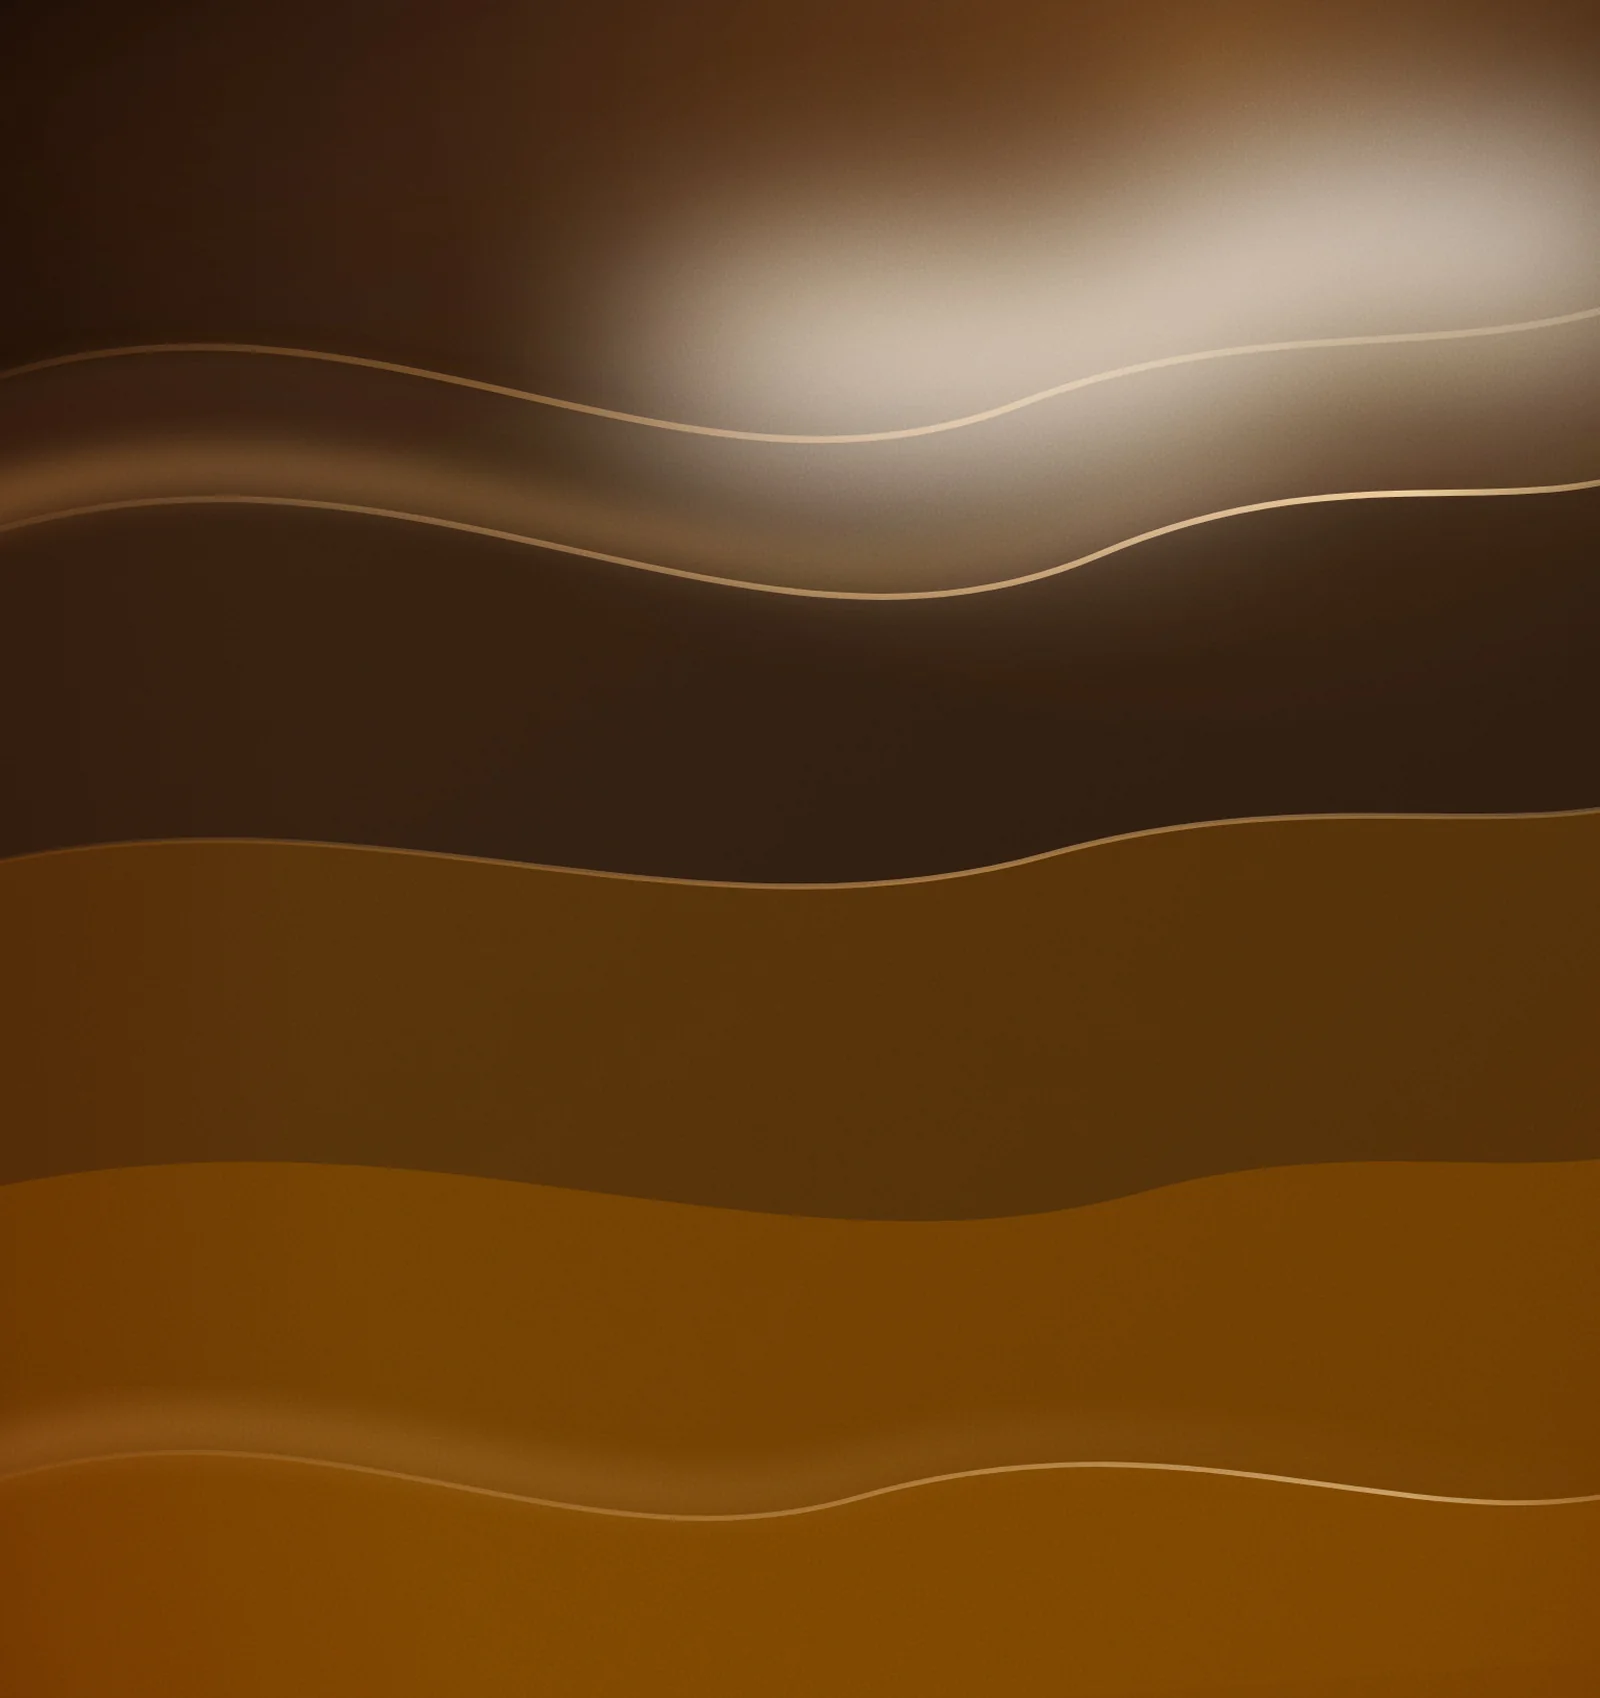
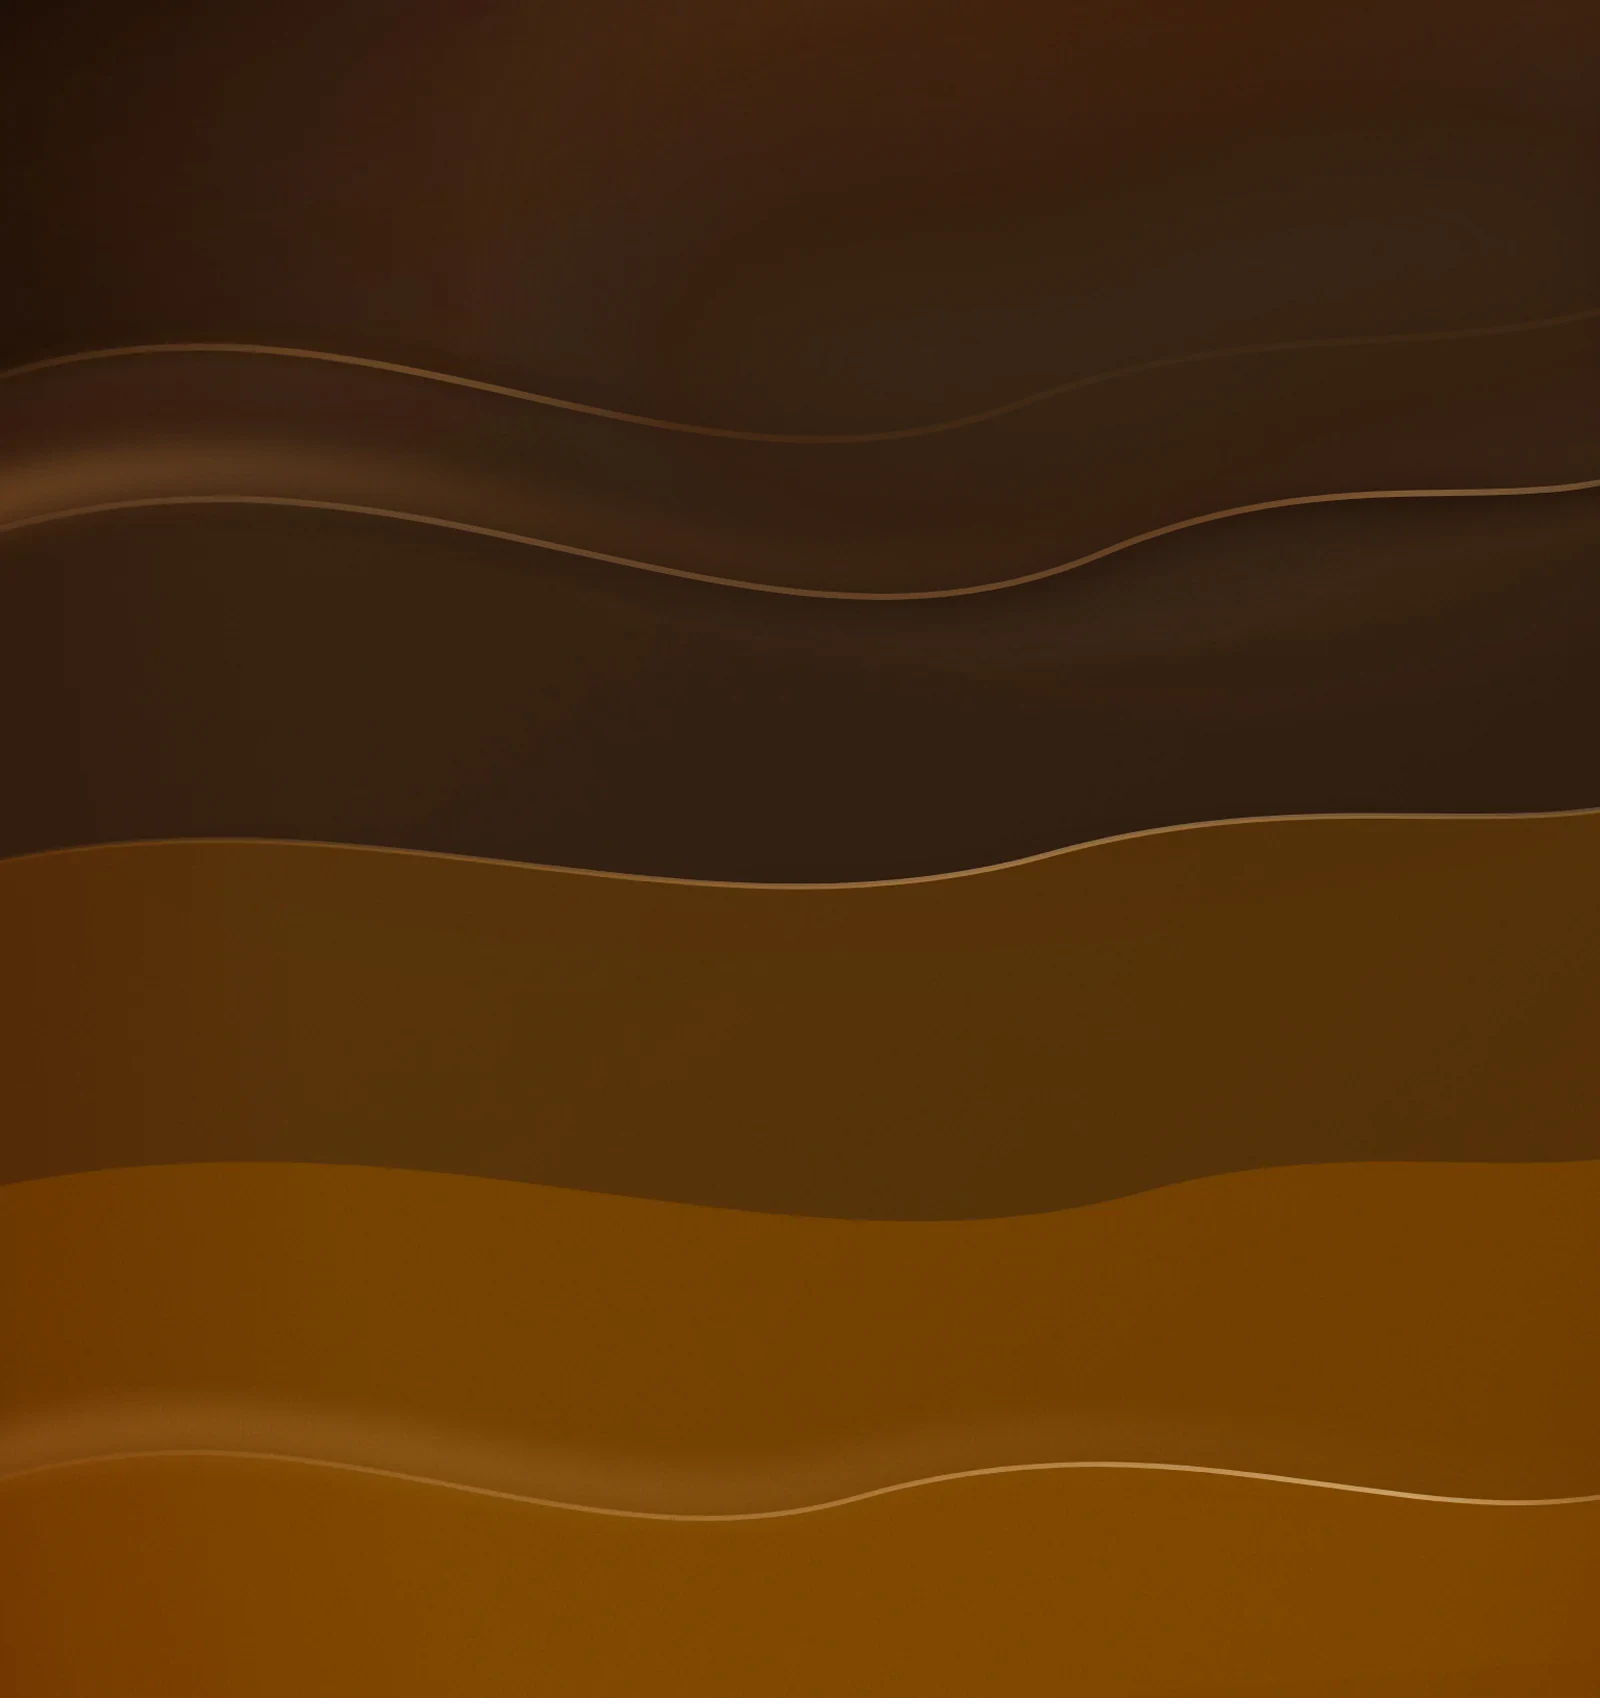
Night sky: the bright patch is gone, so the text can be read
In the dark theme the light patch in the upper right of the sky — where the
app's sun sits — washed out whatever text lay over it. The site's night sky
is now the app's image without that patch; the palette, the bands and the
thin wave lines are the same. brand/night_sky.py makes it from the app's
image, which is kept next to it.

Changed region(s): [[0.1875, 0.0, 1.0, 0.3746]]

diff --git a/style.css b/style.css
@@ -107,7 +107,10 @@ body {
 
 /* The app's sky behind the top of every page, in the same two layers the app
    itself uses: the far one with the soft waves, the near one with the dunes.
-   Both are the app's baked images.
+   Both are the app's baked images — with one difference: the night sky has
+   lost the bright patch where the app's sun sits. Here there is text in that
+   place, and in the dark theme the patch washed it out. `brand/night_sky.py`
+   makes the site's image from the app's.
 
    They drift, very slowly and in opposite directions, and the only thing that
    changes is a transform — the card does that, nothing is repainted frame by

diff --git a/brand/night_sky.py b/brand/night_sky.py
@@ -1,0 +1,50 @@
+"""The night sky for the site, without the glare.
+
+  python3 brand/night_sky.py
+
+The sky behind every page is the app's baked night sky. In the app the bright
+patch in the upper right is where the sun sits; on the site there is no sun
+there, only text, and in the dark theme the patch washed the text out.
+
+This takes the app's image (`brand/sky-night-source.webp`) and removes the
+patch, nothing else: the palette, the bands and the thin wave lines stay. The
+correction is computed from a blurred copy, so it follows the soft light and
+does not touch the lines; inside the patch the light is pulled down to the
+brown around it and warmed back to the same hue.
+
+Needs `ffmpeg` and `cwebp` (brew install ffmpeg webp). No Python packages.
+"""
+import math
+import os
+import subprocess
+import tempfile
+
+HERE = os.path.dirname(os.path.abspath(__file__))
+SRC = os.path.join(HERE, "sky-night-source.webp")
+OUT = os.path.join(HERE, "..", "img", "sky-night.webp")
+
+# Where the patch is (in pixels of the 1600x1698 image), how far down the light
+# is pulled, and how much green and blue are taken out to keep it brown.
+P = dict(CX=1150, CY=285, SX=760, SY=330, ANG=-7, GAIN=2.4, T=43, K=0.07, TG=0.70, TB=0.43, OV=70, BLUR=26)
+c, s = math.cos(math.radians(P["ANG"])), math.sin(math.radians(P["ANG"]))
+L = "(0.30*r(X,Y)+0.59*g(X,Y)+0.11*b(X,Y))"
+dx, dy = "(X-%g)" % P["CX"], "(Y-%g)" % P["CY"]
+u = "((%s*%g+%s*%g)/%g)" % (dx, c, dy, s, P["SX"])
+v = "((-%s*%g+%s*%g)/%g)" % (dx, s, dy, c, P["SY"])
+m = "clip(%g*exp(-(%s*%s+%s*%s)),0,1)" % (P["GAIN"], u, u, v, v)
+# The map of multipliers is computed from the BLURRED image: the soft light is
+# in it, the thin lines are not, so a line is multiplied by the same factor as
+# the ground around it and stays a line. st(0)=luminance, st(1)=mask,
+# st(2)=excess over the target, st(3)=luminance factor, st(4)=tint weight.
+pre = ("st(0,%s);st(1,%s);st(2,max(ld(0)-%g,0));"
+       "st(3,1-ld(1)*(1-(%g+ld(2)*%g)/max(ld(0),1))*gt(ld(0),%g));"
+       "st(4,ld(1)*clip(ld(2)/%g,0,1));") % (L, m, P["T"], P["T"], P["K"], P["T"], P["OV"])
+def ch(t): return "%s255*ld(3)*(1-ld(4)*(1-%g))" % (pre, t)
+flt = ("[0]format=gbrp,split[a][b];"
+       "[b]gblur=sigma=%g,geq=r='%s':g='%s':b='%s'[m];"
+       "[a][m]blend=all_mode=multiply") % (P["BLUR"], ch(1.0), ch(P["TG"]), ch(P["TB"]))
+with tempfile.TemporaryDirectory() as tmp:
+    png = os.path.join(tmp, "sky.png")
+    subprocess.run(["ffmpeg", "-loglevel", "error", "-y", "-i", SRC, "-filter_complex", flt, "-frames:v", "1", png], check=True)
+    subprocess.run(["cwebp", "-quiet", "-q", "88", "-m", "6", "-sharp_yuv", png, "-o", OUT], check=True)
+print("written", os.path.normpath(OUT), os.path.getsize(OUT), "bytes")
